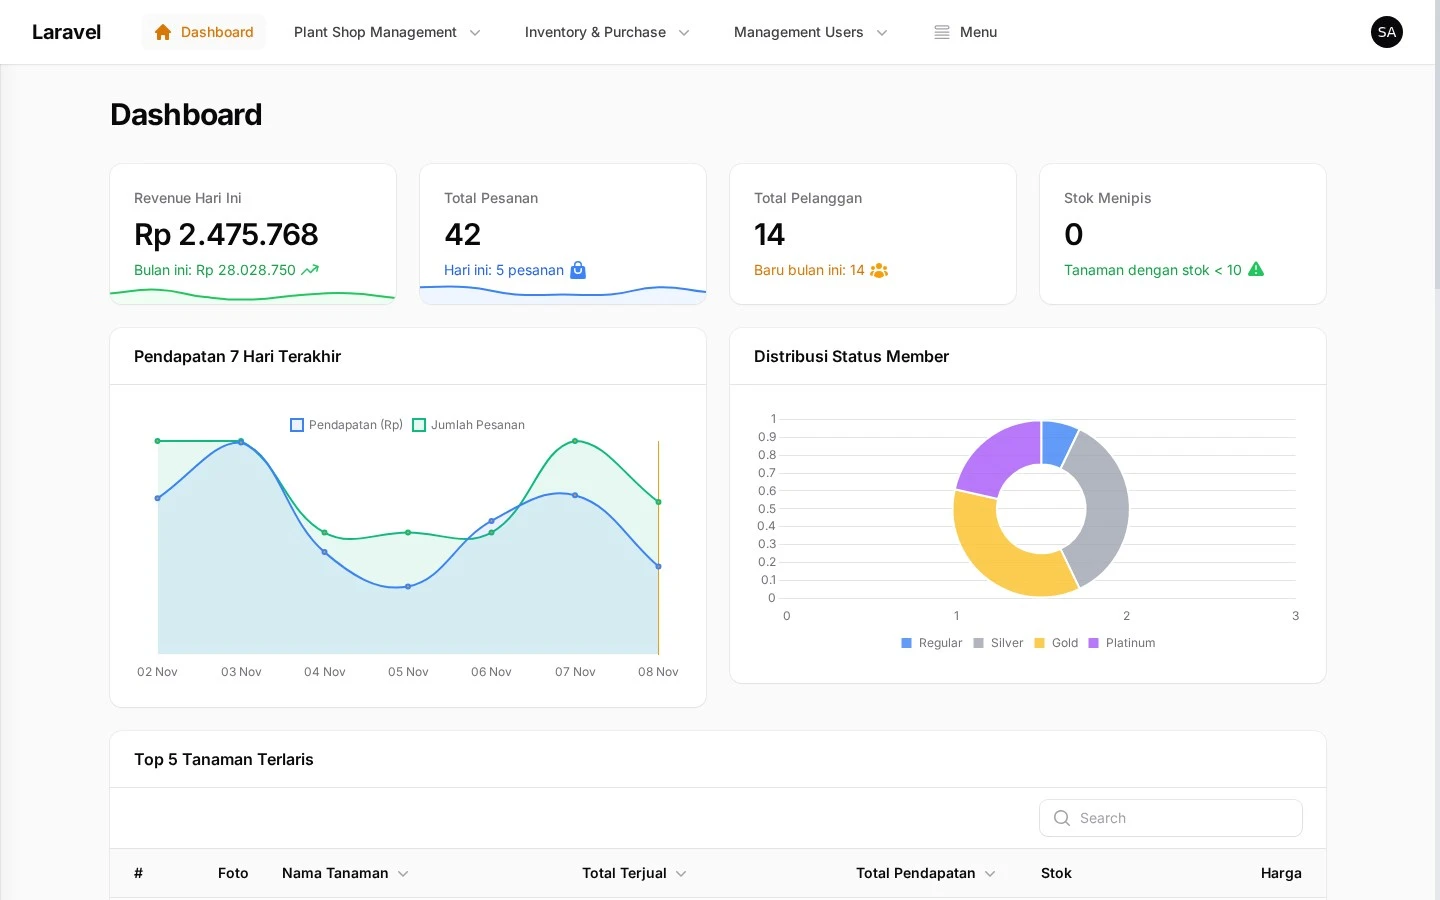
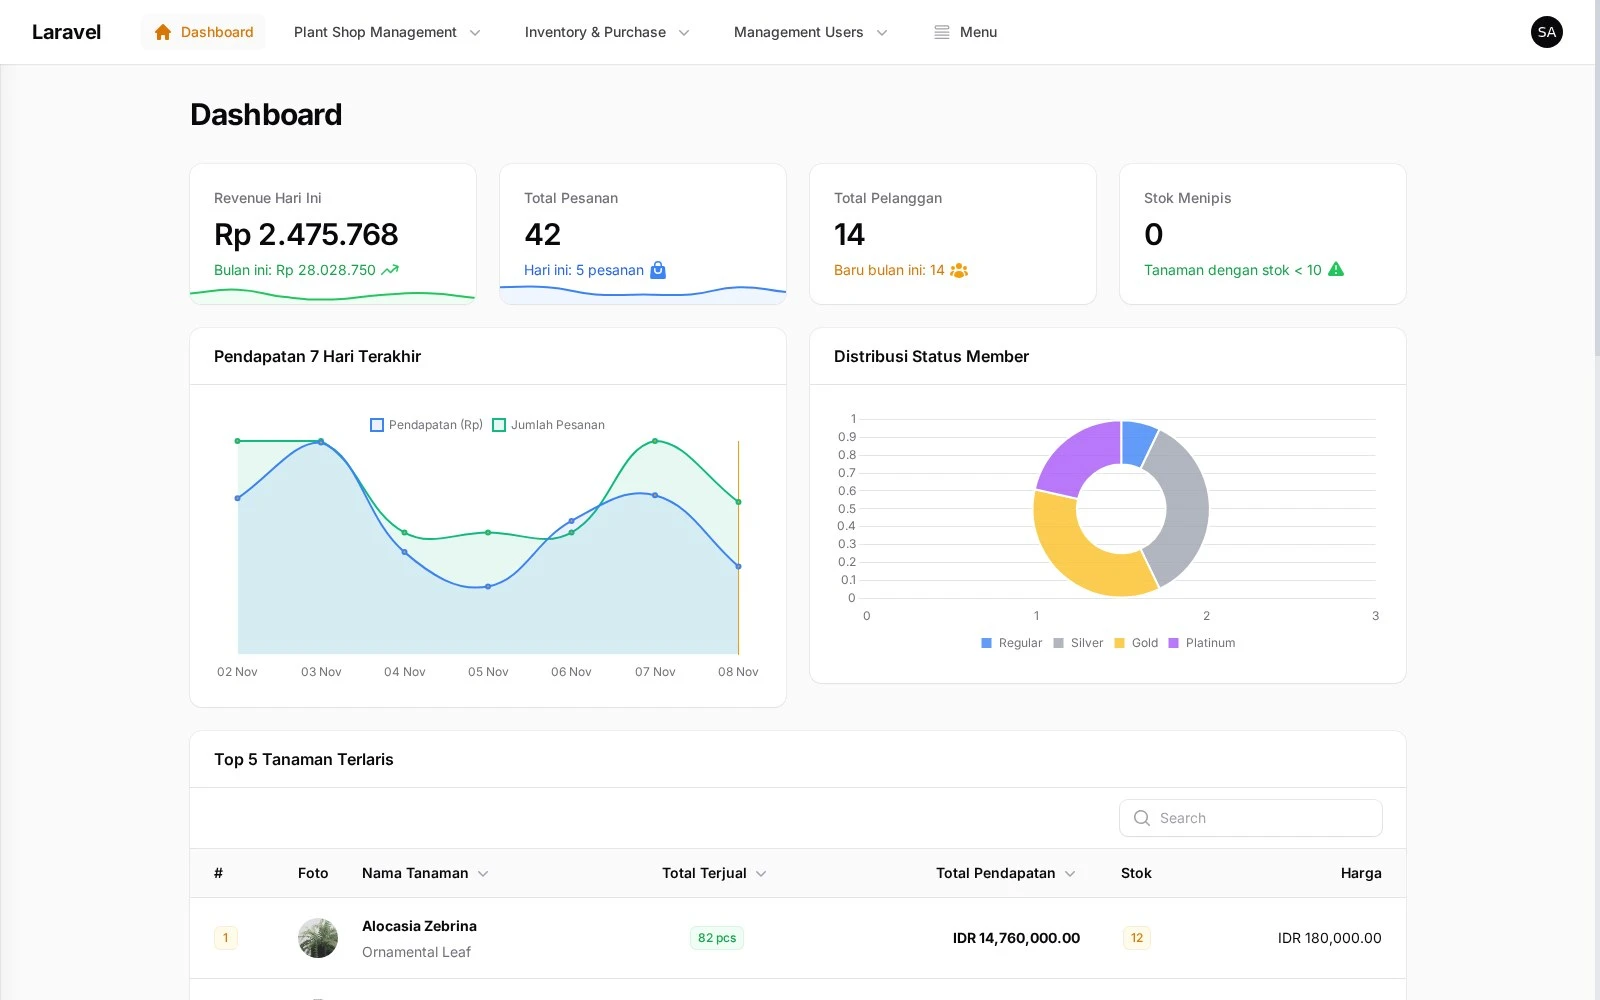
Refresh Plant Shop showcase with public catalog captures

diff --git a/wave/src/content/projects/plant-shop.md b/wave/src/content/projects/plant-shop.md
@@ -1,7 +1,7 @@
 ---
 title: "Plant Shop Management"
 subtitle: "A growing business, organized."
-summary: "An operations dashboard for a plant shop, bringing plant inventory, purchases, sales, customer memberships, and reporting into one application."
+summary: "A public storefront and plant catalog backed by an operations dashboard for inventory, purchases, sales, customer memberships, and reporting."
 order: 3
 categories: ["web"]
 label: "RETAIL OPERATIONS + DASHBOARD"
@@ -14,8 +14,14 @@ images:
     alt: "Plant Shop Management dashboard with revenue charts and inventory indicators."
     caption: "Local dashboard using the repository seed data, from commit 65028d1."
   - src: "images/projects/showcase/plant-inventory.webp"
-    alt: "Plant Shop Management plant inventory with categories, stock, and care levels."
-    caption: "Plant inventory populated with demonstration records."
+    alt: "Plant Shop Management inventory with loaded plant photographs, categories, stock, and care levels."
+    caption: "Plant inventory with demonstration records and representative plant photographs."
+  - src: "images/projects/showcase/plant-storefront.webp"
+    alt: "Public Plant Shop homepage with a peace lily photograph, catalog link, and shop services."
+    caption: "Public storefront introducing the shop and its plant collection."
+  - src: "images/projects/showcase/plant-catalog.webp"
+    alt: "Public plant catalog with product photographs, prices, stock, categories, and care-level filters."
+    caption: "Customer-facing catalog with plant photographs, product information, and filter controls."
 ---
 
 ## The idea
@@ -28,7 +34,8 @@ Running a plant shop involves more than maintaining a product catalog. Stock, su
 - Purchase and sale detail models update stock, while customer membership logic tracks points and tiers.
 - Dashboard widgets summarize revenue, recent transactions, top-selling plants, customer membership, and low-stock alerts.
 - Role and permission management controls access to the administration interface.
+- A public storefront introduces the shop, while the catalog presents plant photographs, pricing, stock, and care information.
 
 ## About the preview
 
-These captures use an isolated local database populated by the repository's seeders. They show the latest inspected commit, `65028d1` (8 November 2026), including its updated menu seeder. All displayed records are demonstration data. The source repository is private.
+These captures use an isolated local database populated by the repository's seeders. They show the latest inspected commit, `65028d1` (8 November 2026), including its updated menu seeder. All displayed records are demonstration data. Representative stock plant photographs were added to the local demo, including the homepage hero; they do not identify every listed cultivar. The source repository is private.

diff --git a/docs/plant-shop-captures.md b/docs/plant-shop-captures.md
@@ -1,0 +1,19 @@
+# Plant Shop screenshot refresh
+
+Four real browser captures show the local application from `defrein/management-plant-shop` commit `65028d1`: dashboard, plant inventory, public homepage, and public catalog. Images are 1600 pixels wide, encoded as WebP at quality 90. Dashboard and inventory replace the previous captures; storefront and catalog extend the project gallery.
+
+The repository seed data contains no uploaded media. The local preview now has a working public storage link and representative photographs attached through Spatie Media Library. Both `image` (admin) and `images` (public templates) collections are populated, together with a gallery image. The homepage's unrelated external stock image is replaced with a locally served peace lily photograph for the demo. No interface is painted over or reconstructed. All inventory, homepage, and catalog images were checked for successful loading before capture.
+
+Photography illustrates demo content and does not identify every listed cultivar. These initialization and asset changes stay in the isolated demo checkout; no changes are pushed to the private source application.
+
+## Photograph sources
+
+Photos are downloaded locally, so portfolio screenshots do not depend on external image hosts. Source pages, under the [Pexels license](https://www.pexels.com/license/):
+
+- [Potted fern — Joshua Mcknight](https://www.pexels.com/photo/green-plant-on-black-pot-3854749/)
+- [Potted monstera](https://www.pexels.com/photo/potted-monstera-plant-21529566/)
+- [Echeveria in a terracotta pot](https://www.pexels.com/photo/close-up-of-echeveria-succulent-in-terracotta-pot-33306623/)
+- [String of pearls arrangement](https://www.pexels.com/photo/green-and-brown-round-fruits-on-brown-wooden-table-10828062/)
+- [Potted cactus](https://www.pexels.com/photo/green-cactus-plant-in-pot-2119597/)
+- [Cactus close-up](https://www.pexels.com/photo/close-up-photo-of-a-potted-cactus-12383257/)
+- [Peace lily](https://www.pexels.com/photo/peace-lily-flower-20780059/)
